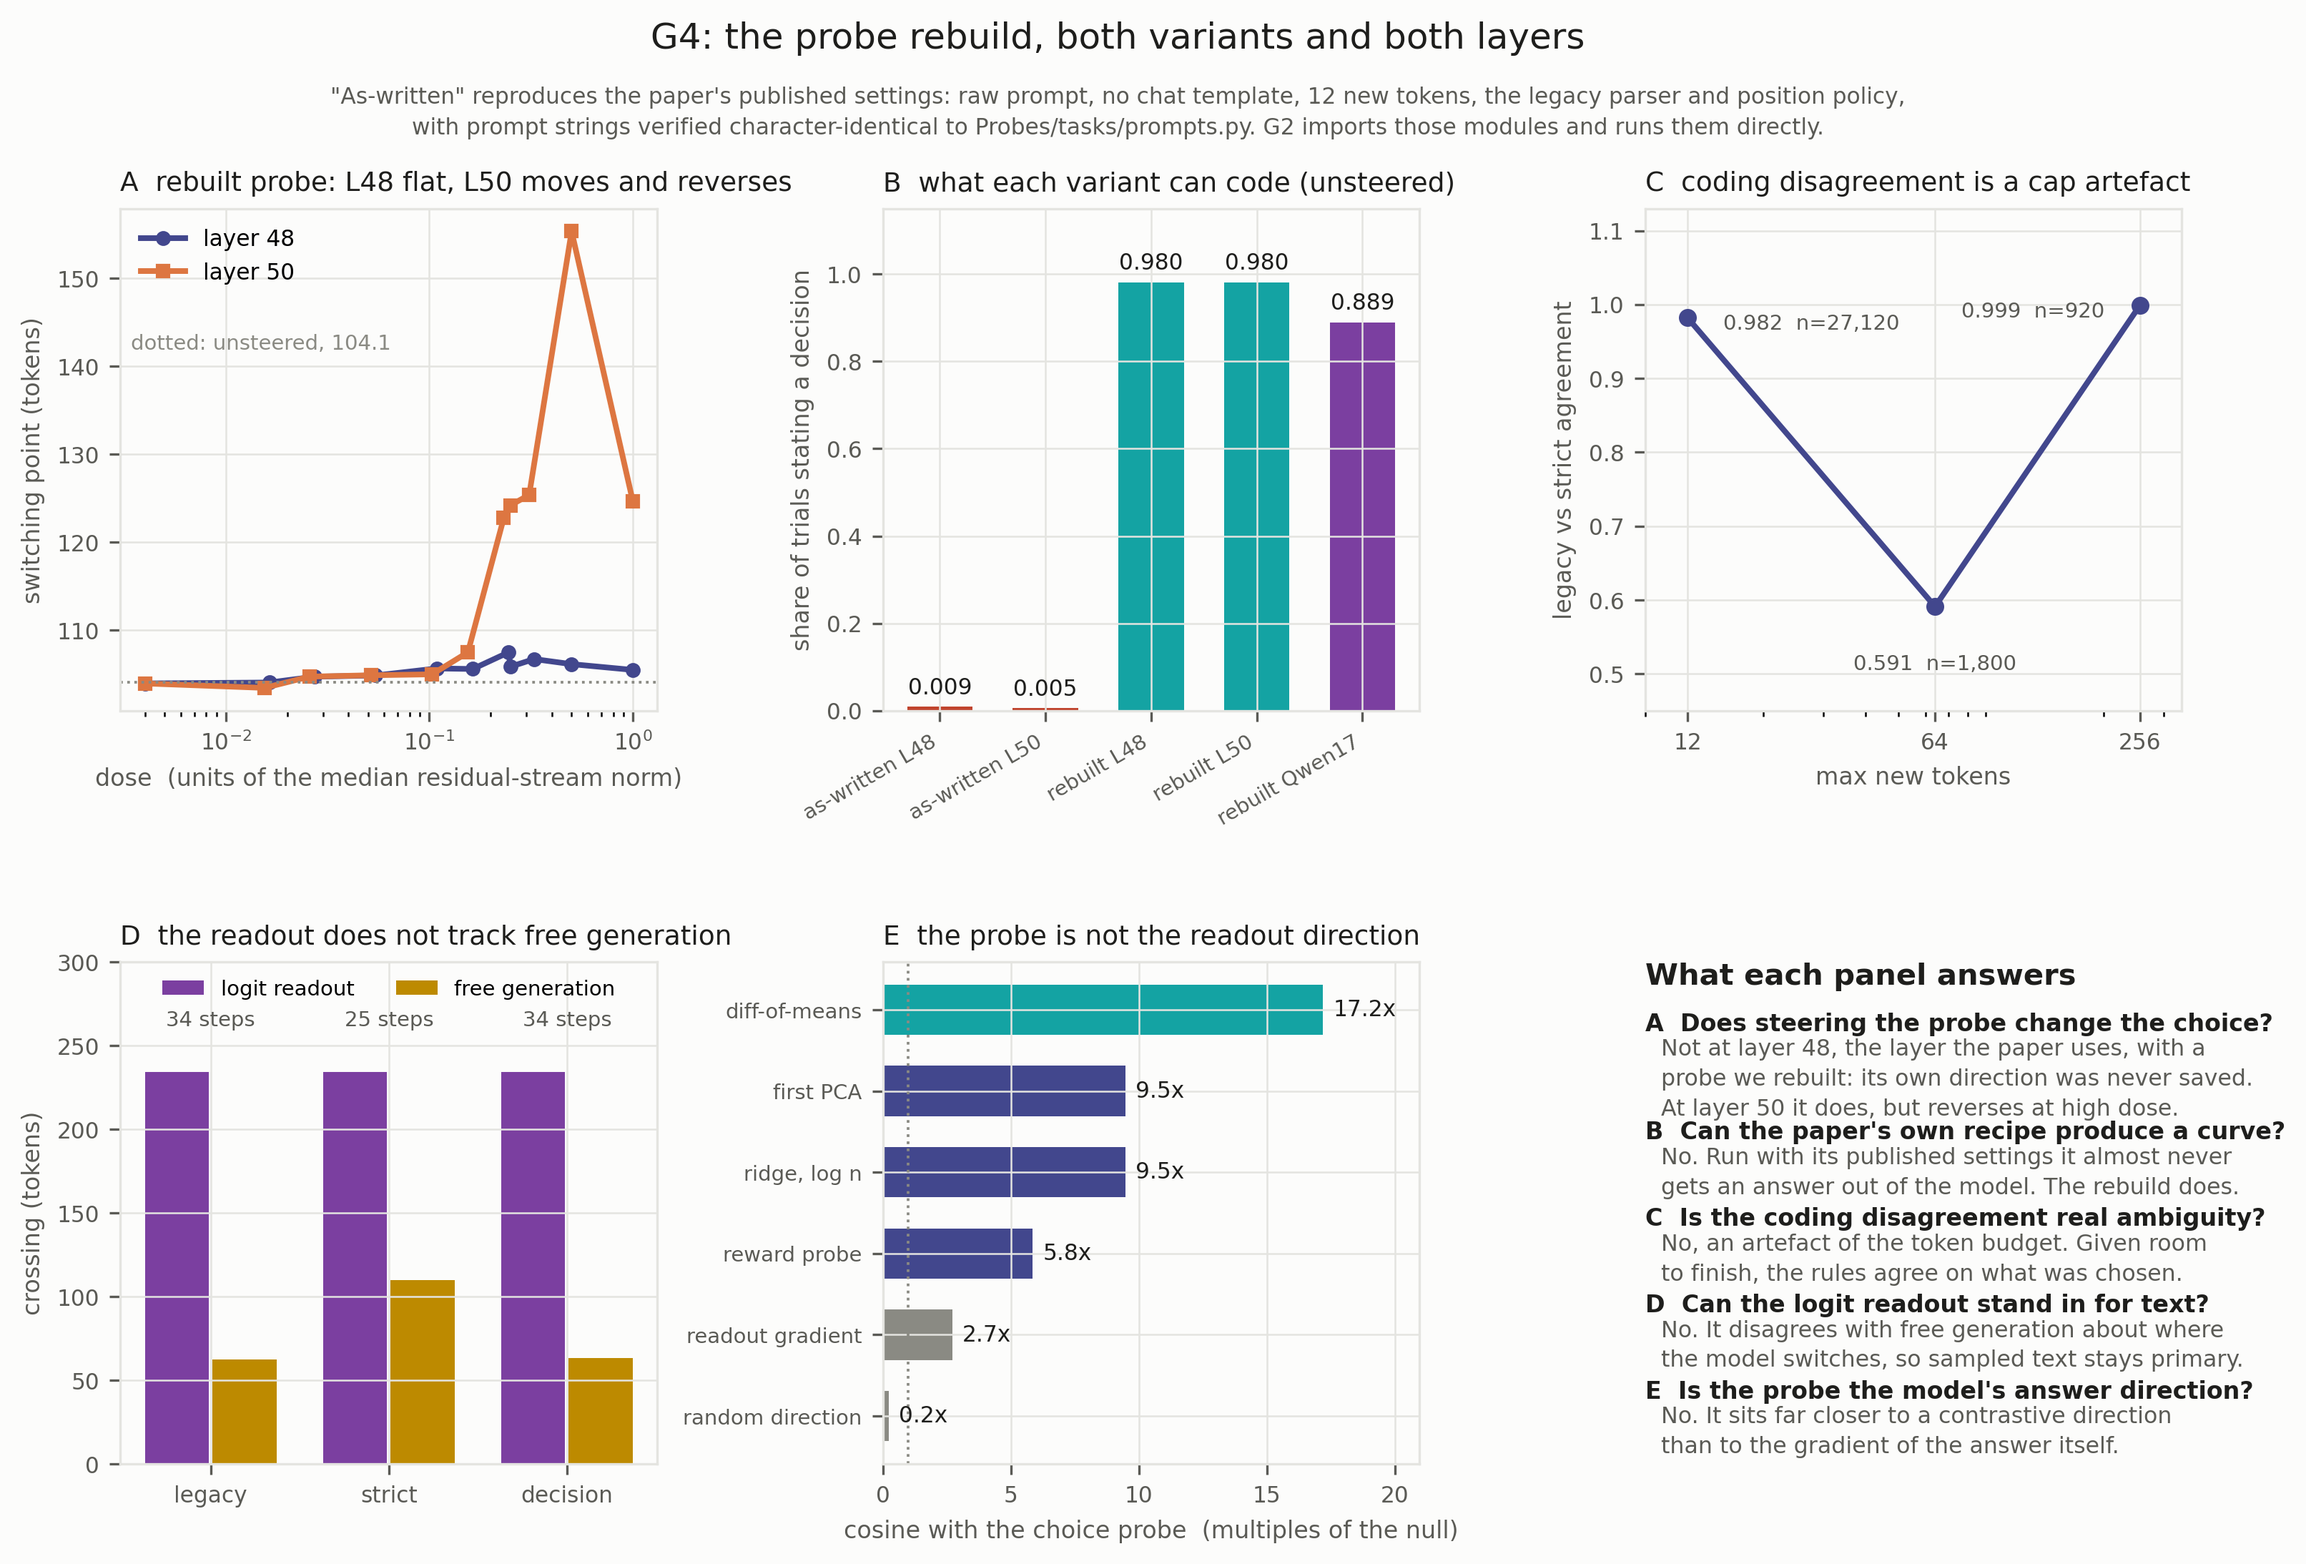
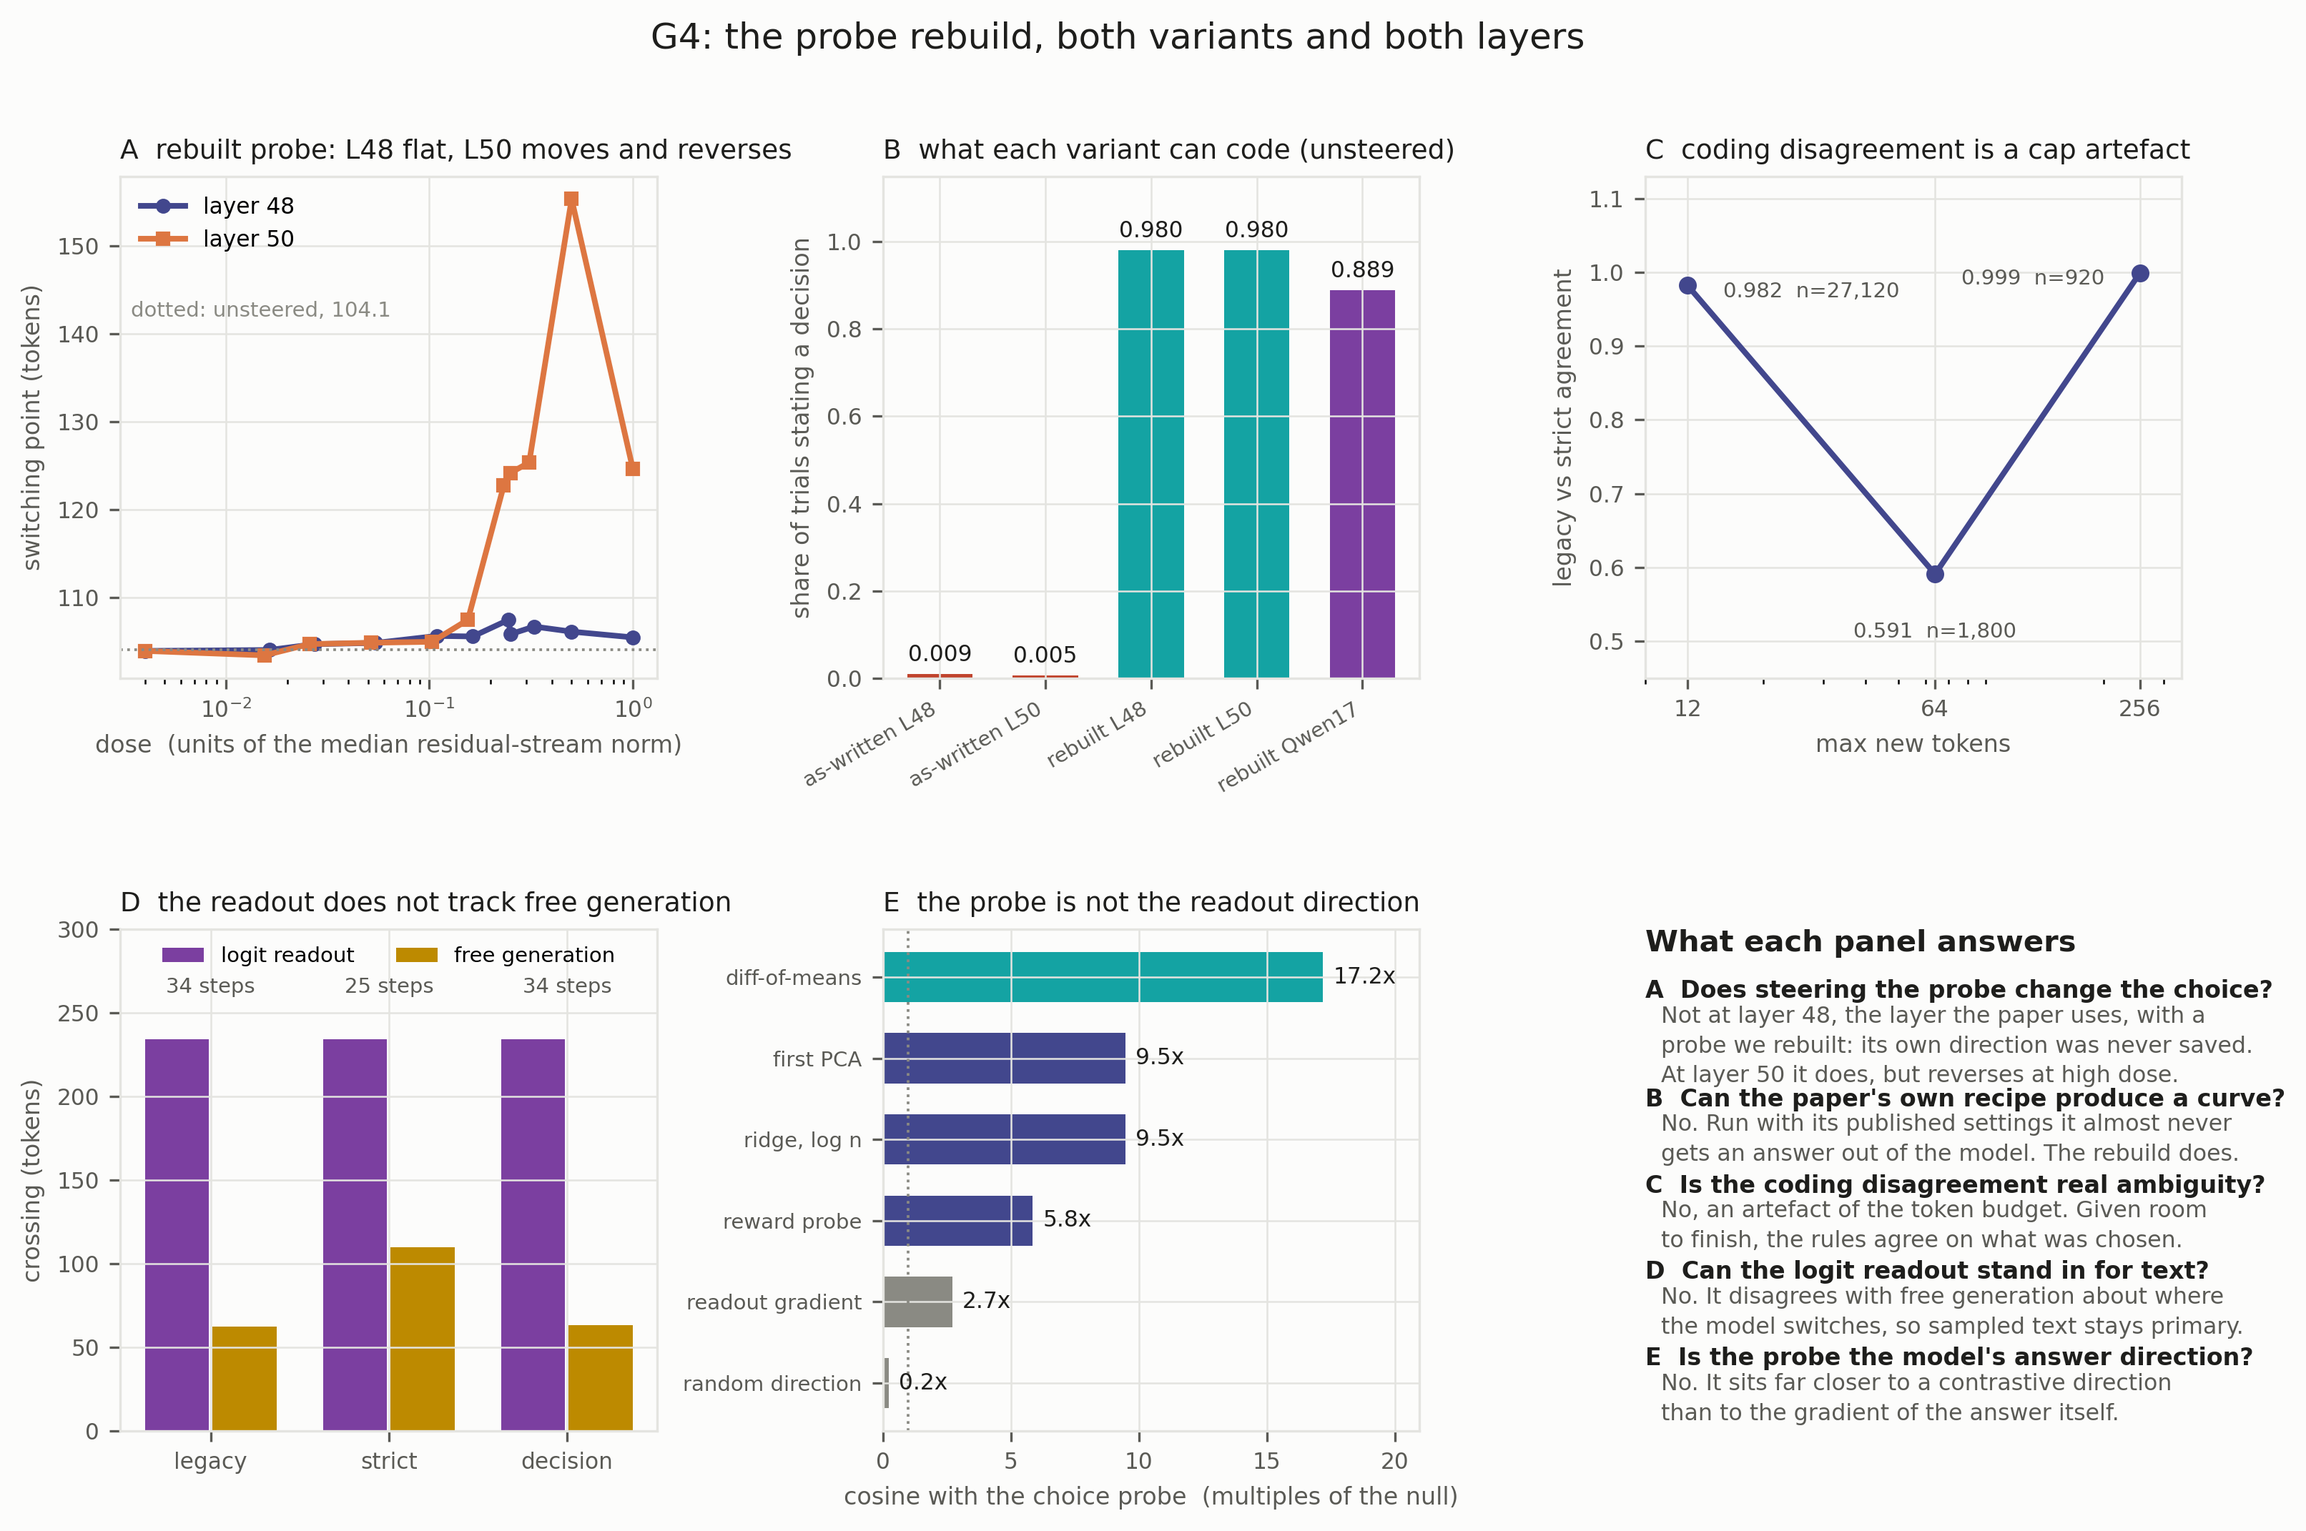
g4_summary: drop the as-written caption line

diff --git a/cv_bench/g4_figure.py b/cv_bench/g4_figure.py
@@ -232,15 +232,7 @@ def build():
         y -= Q_H + A_H * (answer.count("\n") + 1) + GAP
 
     fig.suptitle("G4: the probe rebuild, both variants and both layers",
-                 color=INK, fontsize=12, y=0.995)
-    # Two lines: a single long line makes bbox_inches="tight" stretch the whole
-    # figure to the width of the text.
-    fig.text(0.5, 0.955,
-             "\"As-written\" reproduces the paper's published settings: raw prompt, no chat "
-             "template, 12 new tokens, the legacy parser and position policy,\n"
-             "with prompt strings verified character-identical to Probes/tasks/prompts.py. "
-             "G2 imports those modules and runs them directly.",
-             ha="center", va="top", color=INK2, fontsize=7.5, linespacing=1.5)
+                 color=INK, fontsize=12, y=0.975)
     save(fig, "g4_summary")
 
 
